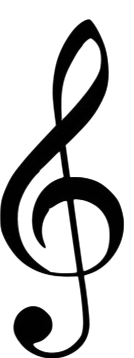
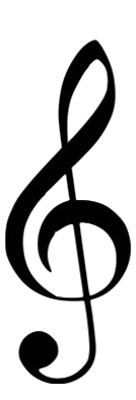
設定画面の実装 AutoLayoutで画面設計の見直し ヘ音記号の追加 表示を安定させるために，3フレーム同じmidiNNが続いたら描画されるように変更

Changed region(s): [[0.0, 0.0307, 0.9851, 1.0]]

diff --git a/TempiFFT/SpectralView.swift b/TempiFFT/SpectralView.swift
@@ -14,6 +14,7 @@ class SpectralView: UIView {
     var guessedFreq: Int?
     var noteImage: UIImage?
     var midiNN: Int?
+    var midiNNhistory: [Int] = [0,0,0]
     let notePositionX: Int = 180
     private var pitchDict: [String : Int] = [
         "C":0,
@@ -56,65 +57,70 @@ class SpectralView: UIView {
         
         let context = UIGraphicsGetCurrentContext()
         
-        if (midiNN! < 47) {
-            self.subviews[0].isHidden = true
-            self.subviews[1].isHidden = true
-        }else if (midiNN! > 61) {
-            self.subviews[0].isHidden = true
-            self.subviews[1].isHidden = true
-        }else {
-            self.subviews[0].isHidden = false
-            
-            switch midiNN! {
-            case 48:
-                self.subviews[0].frame = CGRect(x: self.notePositionX, y: 225, width: 30, height: 30) // C3
-                self.subviews[1].isHidden = true
-            case 49:
-                self.subviews[0].frame = CGRect(x: self.notePositionX, y: 225, width: 30, height: 30) // C#3
-                self.subviews[1].frame = CGRect(x: self.notePositionX - 30, y: 225, width: 30, height: 30)
-                self.subviews[1].isHidden = false
-            case 50:
-                self.subviews[0].frame = CGRect(x: self.notePositionX, y: 210, width: 30, height: 30) // D3
-                self.subviews[1].isHidden = true
-            case 51:
-                self.subviews[0].frame = CGRect(x: self.notePositionX, y: 210, width: 30, height: 30) // D#3
-                self.subviews[1].frame = CGRect(x: self.notePositionX - 30, y: 210, width: 30, height: 30)
-                self.subviews[1].isHidden = false
-            case 52:
-                self.subviews[0].frame = CGRect(x: self.notePositionX, y: 195, width: 30, height: 30) // E3
-                self.subviews[1].isHidden = true
-            case 53:
-                self.subviews[0].frame = CGRect(x: self.notePositionX, y: 195, width: 30, height: 30) // E#3
-                self.subviews[1].frame = CGRect(x: self.notePositionX - 30, y: 195, width: 30, height: 30)
-                self.subviews[1].isHidden = false
-            case 54:
-                self.subviews[0].frame = CGRect(x: self.notePositionX, y: 180, width: 30, height: 30) // F3
-                self.subviews[1].isHidden = true
-            case 55:
-                self.subviews[0].frame = CGRect(x: self.notePositionX, y: 165, width: 30, height: 30) // G3
-                self.subviews[1].isHidden = true
-            case 56:
-                self.subviews[0].frame = CGRect(x: self.notePositionX, y: 165, width: 30, height: 30) // G#3
-                self.subviews[1].frame = CGRect(x: self.notePositionX - 30, y: 165, width: 30, height: 30)
-                self.subviews[1].isHidden = false
-            case 57:
-                self.subviews[0].frame = CGRect(x: self.notePositionX, y: 150, width: 30, height: 30) // A3
-                self.subviews[1].isHidden = true
-            case 58:
-                self.subviews[0].frame = CGRect(x: self.notePositionX, y: 150, width: 30, height: 30) // A#3
-                self.subviews[1].frame = CGRect(x: self.notePositionX - 30, y: 150, width: 30, height: 30)
-                self.subviews[1].isHidden = false
-            case 60:
-                self.subviews[0].frame = CGRect(x: self.notePositionX, y: 135, width: 30, height: 30) // B3
-                self.subviews[1].isHidden = true
-            case 61:
-                self.subviews[0].frame = CGRect(x: self.notePositionX, y: 135, width: 30, height: 30) //B#3
-                self.subviews[1].frame = CGRect(x: self.notePositionX - 30, y: 135, width: 30, height: 30)
-                self.subviews[1].isHidden = false
-            default:
+        if Set(midiNNhistory).count == 1 {
+            if (midiNN! < 47) {
                 self.subviews[0].isHidden = true
                 self.subviews[1].isHidden = true
+            }else if (midiNN! > 61) {
+                self.subviews[0].isHidden = true
+                self.subviews[1].isHidden = true
+            }else {
+                self.subviews[0].isHidden = false
+                
+                switch midiNN! {
+                case 48:
+                    self.subviews[0].frame = CGRect(x: self.notePositionX, y: 225, width: 30, height: 30) // C3
+                    self.subviews[1].isHidden = true
+                case 49:
+                    self.subviews[0].frame = CGRect(x: self.notePositionX, y: 225, width: 30, height: 30) // C#3
+                    self.subviews[1].frame = CGRect(x: self.notePositionX - 30, y: 225, width: 30, height: 30)
+                    self.subviews[1].isHidden = false
+                case 50:
+                    self.subviews[0].frame = CGRect(x: self.notePositionX, y: 210, width: 30, height: 30) // D3
+                    self.subviews[1].isHidden = true
+                case 51:
+                    self.subviews[0].frame = CGRect(x: self.notePositionX, y: 210, width: 30, height: 30) // D#3
+                    self.subviews[1].frame = CGRect(x: self.notePositionX - 30, y: 210, width: 30, height: 30)
+                    self.subviews[1].isHidden = false
+                case 52:
+                    self.subviews[0].frame = CGRect(x: self.notePositionX, y: 195, width: 30, height: 30) // E3
+                    self.subviews[1].isHidden = true
+                case 53:
+                    self.subviews[0].frame = CGRect(x: self.notePositionX, y: 195, width: 30, height: 30) // E#3
+                    self.subviews[1].frame = CGRect(x: self.notePositionX - 30, y: 195, width: 30, height: 30)
+                    self.subviews[1].isHidden = false
+                case 54:
+                    self.subviews[0].frame = CGRect(x: self.notePositionX, y: 180, width: 30, height: 30) // F3
+                    self.subviews[1].isHidden = true
+                case 55:
+                    self.subviews[0].frame = CGRect(x: self.notePositionX, y: 165, width: 30, height: 30) // G3
+                    self.subviews[1].isHidden = true
+                case 56:
+                    self.subviews[0].frame = CGRect(x: self.notePositionX, y: 165, width: 30, height: 30) // G#3
+                    self.subviews[1].frame = CGRect(x: self.notePositionX - 30, y: 165, width: 30, height: 30)
+                    self.subviews[1].isHidden = false
+                case 57:
+                    self.subviews[0].frame = CGRect(x: self.notePositionX, y: 150, width: 30, height: 30) // A3
+                    self.subviews[1].isHidden = true
+                case 58:
+                    self.subviews[0].frame = CGRect(x: self.notePositionX, y: 150, width: 30, height: 30) // A#3
+                    self.subviews[1].frame = CGRect(x: self.notePositionX - 30, y: 150, width: 30, height: 30)
+                    self.subviews[1].isHidden = false
+                case 60:
+                    self.subviews[0].frame = CGRect(x: self.notePositionX, y: 135, width: 30, height: 30) // B3
+                    self.subviews[1].isHidden = true
+                case 61:
+                    self.subviews[0].frame = CGRect(x: self.notePositionX, y: 135, width: 30, height: 30) //B#3
+                    self.subviews[1].frame = CGRect(x: self.notePositionX - 30, y: 135, width: 30, height: 30)
+                    self.subviews[1].isHidden = false
+                default:
+                    self.subviews[0].isHidden = true
+                    self.subviews[1].isHidden = true
+                }
             }
+        }else {
+            self.subviews[0].isHidden = true
+            self.subviews[1].isHidden = true
         }
 
         if isDebugMode {

diff --git a/TempiFFT/SpectralViewController.swift b/TempiFFT/SpectralViewController.swift
@@ -14,36 +14,38 @@ class SpectralViewController: UIViewController {
     var audioInput: TempiAudioInput!
     var spectralView: SpectralView!
     var inData: [Float]!
-    var selectedTonality: String = ""
     
     // called immediately after a screen has been displayed
     override func viewDidLoad() {
         super.viewDidLoad()
 
         let appDelegate = UIApplication.shared.delegate as! AppDelegate
-        if appDelegate.message != nil {
-            self.selectedTonality = appDelegate.message!
-        }
         
         spectralView = SpectralView(frame: self.view.bounds)
         spectralView.backgroundColor = UIColor.white
         spectralView.noteImage = UIImage(named: "zen-onpu.png")
         spectralView.prepareNoteImage()
-        
         self.view.addSubview(spectralView)
         
-        print(self.selectedTonality)
-                
         // prepare Image View
-        let rect = CGRect(x: 0, y: 40, width: 150, height: 220)
-        let imageView = UIImageView(frame: rect)
-        
-        // set Image display mode
-        imageView.contentMode = .scaleAspectFit
+        let imageView = UIImageView()
         
         // set photo file
-        imageView.image = UIImage(named: "G_clef_resized.png")
+        if appDelegate.clef == nil {
+            imageView.image = UIImage(named: "G_clef_resized.png")
+        } else if appDelegate.clef == "Bas" {
+            imageView.image = UIImage(named: "F_clef_resized.png")
+        } else {
+            imageView.image = UIImage(named: "G_clef_resized.png")
+        }
+        imageView.translatesAutoresizingMaskIntoConstraints = false
         self.view.addSubview(imageView)
+        
+        // this part is Auto Laytout by NSLayoutAnchor
+        imageView.leftAnchor.constraint(equalTo: self.view.leftAnchor).isActive = true
+        imageView.centerYAnchor.constraint(equalTo: self.view.centerYAnchor).isActive = true
+        imageView.heightAnchor.constraint(equalToConstant: imageView.image!.size.height * 0.5).isActive = true
+        imageView.widthAnchor.constraint(equalToConstant: imageView.image!.size.width * 0.5).isActive = true
         
         let audioInputCallback: TempiAudioInputCallback = { (timeStamp, numberOfFrames, samples) -> Void in
             self.gotSomeAudio(timeStamp: Double(timeStamp), numberOfFrames: Int(numberOfFrames), samples: samples)
@@ -53,8 +55,8 @@ class SpectralViewController: UIViewController {
         audioInput.startRecording()
         
         // draw 5 lines
-        for i in 1...5 {
-            let lineImage = self.makeScoreImage(pos_y: CGFloat(60 + 30 * i))
+        for i in -2...2 {
+            let lineImage = self.makeScoreImage(pos_y: self.view.bounds.height * 0.5 + imageView.image!.size.height * 1/16 * CGFloat(i))
             let lineView = UIImageView(image: lineImage)
             self.view.addSubview(lineView)
         }
@@ -90,14 +92,17 @@ class SpectralViewController: UIViewController {
         self.view.addSubview(debugButton)
         
         // make setting mode button.
-        let settingButton: UIButton = UIButton(frame: CGRect(x: 0,y: 0, width: 120, height: 50))
-        settingButton.backgroundColor = UIColor.red
+        let settingButton: UIButton = UIButton()
         settingButton.layer.masksToBounds = true
-        settingButton.setTitle("back", for: .normal)
-        settingButton.layer.cornerRadius = 20.0
-        settingButton.layer.position = CGPoint(x: self.view.bounds.width/2 , y:self.view.bounds.height-50)
+        settingButton.translatesAutoresizingMaskIntoConstraints = false
         settingButton.addTarget(self, action: #selector(onClickMyButton(sender:)), for: .touchUpInside)
+        settingButton.setImage(UIImage(named: "setting.png"), for: UIControlState.normal)
         self.view.addSubview(settingButton)
+        
+        settingButton.topAnchor.constraint(equalTo: self.view.topAnchor, constant: 15.0).isActive = true
+        settingButton.leadingAnchor.constraint(equalTo: self.view.leadingAnchor, constant: 15.0).isActive = true
+        settingButton.widthAnchor.constraint(equalToConstant: 40).isActive = true
+        settingButton.heightAnchor.constraint(equalToConstant: 40).isActive = true
     }
 
     func gotSomeAudio(timeStamp: Double, numberOfFrames: Int, samples: [Float]) {
@@ -127,6 +132,8 @@ class SpectralViewController: UIViewController {
             self.spectralView.cepstrum = cepstrum
             self.spectralView.guessedFreq = Int(freq)
             self.spectralView.midiNN = nn
+            self.spectralView.midiNNhistory.removeFirst()
+            self.spectralView.midiNNhistory.append(nn)
             self.spectralView.setNeedsDisplay()
         }
     }
@@ -155,26 +162,20 @@ class SpectralViewController: UIViewController {
         }
     }
     
-    /*
-     ボタンイベント.
-     */
+
     internal func onClickMyButton(sender: UIButton){
-        
-        // 遷移するViewを定義.
+        // define transition destination view
         let myViewController: UIViewController = SettingViewController()
         
-        // アニメーションを設定.
+        // set animation mode
         myViewController.modalTransitionStyle = UIModalTransitionStyle.flipHorizontal
         
-        // Viewの移動.
+        // move to defined view
         self.present(myViewController, animated: true, completion: nil)
     }
     
     // function name isn't match. drawLine is more proper
    func makeScoreImage(pos_y: CGFloat) -> UIImage {
-//        let viewWidth = self.view.bounds.size.width
-//        let viewHeight = self.view.bounds.size.height
-        
         let size = view.bounds.size
         UIGraphicsBeginImageContextWithOptions(size, false, 1.0)
         
@@ -185,7 +186,7 @@ class SpectralViewController: UIViewController {
         
         UIColor.black.setStroke()
         UIColor.black.setFill()
-        line.lineWidth = 1.0
+        line.lineWidth = 2.0
         line.stroke()
     
         let image = UIGraphicsGetImageFromCurrentImageContext()

diff --git a/TempiFFT/SettingViewController.swift b/TempiFFT/SettingViewController.swift
@@ -9,30 +9,67 @@
 import Foundation
 import UIKit
 
-class SettingViewController: UIViewController {
+class SettingViewController: UIViewController, UIPickerViewDelegate, UIPickerViewDataSource {
+    var appDelegate = UIApplication.shared.delegate as! AppDelegate
+    let part = ["Sop", "Alt", "Ten", "Bas"]
+    
     override func viewDidLoad() {
         super.viewDidLoad()
         
-        self.view.backgroundColor = UIColor.black
+        self.view.backgroundColor = UIColor.white
         
         // make button.
-        let backButton: UIButton = UIButton(frame: CGRect(x: 0,y: 0, width: 120, height: 50))
+        let backButton: UIButton = UIButton()
         backButton.backgroundColor = UIColor.red
-        backButton.layer.masksToBounds = true
         backButton.setTitle("back", for: .normal)
-        backButton.layer.cornerRadius = 20.0
-        backButton.layer.position = CGPoint(x: self.view.bounds.width/2 , y:self.view.bounds.height-50)
+        backButton.translatesAutoresizingMaskIntoConstraints = false
+        backButton.layer.cornerRadius = 5.0
         backButton.addTarget(self, action: #selector(onClickMyButton(sender:)), for: .touchUpInside)
         self.view.addSubview(backButton)
+        
+        
+        // AutoLayout
+        backButton.topAnchor.constraint(equalTo: self.view.topAnchor, constant: 30.0).isActive = true
+        backButton.leadingAnchor.constraint(equalTo: self.view.leadingAnchor, constant: 30.0).isActive = true
+        backButton.widthAnchor.constraint(equalTo: self.view.widthAnchor, multiplier: 0.1).isActive = true
+        backButton.heightAnchor.constraint(equalToConstant: 30).isActive = true
+        
+        let picker = UIPickerView()
+        picker.translatesAutoresizingMaskIntoConstraints = false
+        picker.delegate = self
+        picker.dataSource = self
+        picker.selectRow(1, inComponent: 0, animated: true)
+        
+        self.view.addSubview(picker)
+        
+        // AutoLayout
+        picker.centerYAnchor.constraint(equalTo: self.view.centerYAnchor).isActive = true
+        picker.leadingAnchor.constraint(equalTo: self.view.leadingAnchor, constant: 50.0).isActive = true
+        picker.widthAnchor.constraint(equalTo: self.view.widthAnchor, multiplier: 0.6).isActive = true
+        picker.heightAnchor.constraint(equalToConstant: 50).isActive = true
     }
     
+    func numberOfComponents(in pickerView: UIPickerView) -> Int {
+        return 1
+    }
+    
+    func pickerView(_ pickerView: UIPickerView, numberOfRowsInComponent component: Int) -> Int {
+        return part.count
+    }
+    
+    func pickerView(_ pickerView: UIPickerView, titleForRow row: Int, forComponent component: Int) -> String? {
+        return part[row]
+    }
+    
+    func pickerView(_ pickerView: UIPickerView, didSelectRow row: Int, inComponent component: Int) {
+        appDelegate.message = part[row]
+        appDelegate.clef = part[row]
+        print(part[row])
+    }
     /*
      ボタンイベント.
      */
-    internal func onClickMyButton(sender: UIButton){
-        let appDelegate = UIApplication.shared.delegate as! AppDelegate
-        appDelegate.message = "Hello"
-        
+    internal func onClickMyButton(sender: UIButton){        
         // 遷移するViewを定義.
         let myViewController: UIViewController = SpectralViewController()
         
@@ -44,11 +81,11 @@ class SettingViewController: UIViewController {
         self.present(myViewController, animated: true, completion: nil)
     }
     
-    override func prepare(for segue: UIStoryboardSegue, sender: Any?) {
-        let spectralViewController = segue.destination as! SpectralViewController
-        spectralViewController.selectedTonality = "moved"
-        
-    }
+//    override func prepare(for segue: UIStoryboardSegue, sender: Any?) {
+//        let spectralViewController = segue.destination as! SpectralViewController
+//        spectralViewController.selectedTonality = "moved"
+//        
+//    }
 
     
     override func didReceiveMemoryWarning() {

diff --git a/TempiFFT/AppDelegate.swift b/TempiFFT/AppDelegate.swift
@@ -13,9 +13,13 @@ class AppDelegate: UIResponder, UIApplicationDelegate {
 
     var window: UIWindow?
     var message: String?
+    var clef: String?
 
     // called when application start
     func application(_ application: UIApplication, didFinishLaunchingWithOptions launchOptions: [UIApplicationLaunchOptionsKey : Any]? = nil) -> Bool {
+        // switch off sleep mode
+        UIApplication.shared.isIdleTimerDisabled = true
+        
         return true
     }
     
